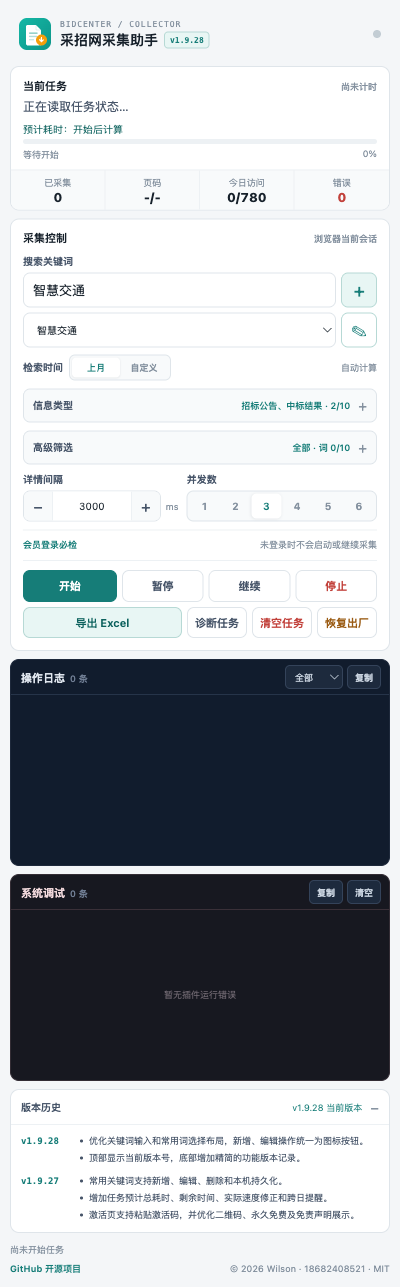
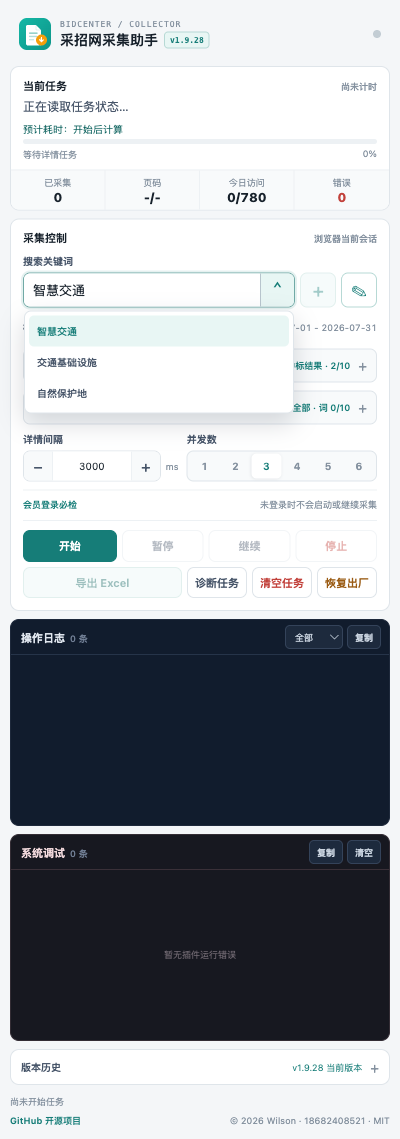
feat: 合并关键词输入与完整版本历史

diff --git a/sidepanel.js b/sidepanel.js
@@ -77,6 +77,7 @@ async function initializeSidepanel() {
   document.querySelectorAll('[data-app-version]').forEach((element) => {
     element.textContent = `v${version}`;
   });
+  renderKeywordOptions();
   const stored = await chrome.storage.local.get(ACTIVATION_STORAGE_KEY);
   const isActivated = stored[ACTIVATION_STORAGE_KEY]?.activated === true;
   showActivationView(isActivated);
@@ -399,16 +400,51 @@ function renderKeywordManager() {
 
 function renderKeywordOptions() {
   const selected = $('#keyword').value.trim();
-  const placeholder = document.createElement('option');
-  placeholder.value = '';
-  placeholder.textContent = '选择常用关键词';
-  $('#keyword-options').replaceChildren(placeholder, ...keywordOptions.map((keyword) => {
-    const option = document.createElement('option');
-    option.value = keyword;
+  $('#keyword-options').replaceChildren(...keywordOptions.map((keyword, index) => {
+    const option = document.createElement('button');
+    option.type = 'button';
+    option.id = `keyword-option-${index}`;
+    option.className = 'keyword-option';
+    option.setAttribute('role', 'option');
     option.textContent = keyword;
+    option.addEventListener('click', () => {
+      $('#keyword').value = keyword;
+      keywordDirty = true;
+      syncKeywordControls();
+      setKeywordDropdown(false);
+      $('#keyword').focus();
+    });
     return option;
   }));
-  $('#keyword-options').value = keywordOptions.includes(selected) ? selected : '';
+  $('#keyword-toggle').disabled = !keywordOptions.length;
+  $('#keyword-toggle').title = keywordOptions.length ? '选择常用关键词' : '暂无常用关键词';
+  syncKeywordControls(selected);
+}
+
+function setKeywordDropdown(open) {
+  const visible = Boolean(open && keywordOptions.length);
+  $('#keyword-options').hidden = !visible;
+  $('#keyword').setAttribute('aria-expanded', String(visible));
+  $('#keyword-toggle').setAttribute('aria-expanded', String(visible));
+  $('#keyword-toggle').classList.toggle('open', visible);
+}
+
+function syncKeywordControls(value = $('#keyword').value.trim()) {
+  const normalized = value.toLocaleLowerCase('zh-CN');
+  const selectedIndex = keywordOptions.findIndex((keyword) => keyword.toLocaleLowerCase('zh-CN') === normalized);
+  const addButton = $('#add-keyword');
+  const duplicate = selectedIndex >= 0;
+  addButton.disabled = !value || duplicate;
+  addButton.title = !value
+    ? '请先输入关键词'
+    : duplicate ? '该关键词已存在，无需重复添加' : '添加到常用关键词';
+  [...$('#keyword-options').children].forEach((option, index) => {
+    const selected = index === selectedIndex;
+    option.classList.toggle('selected', selected);
+    option.setAttribute('aria-selected', String(selected));
+  });
+  if (selectedIndex >= 0) $('#keyword').setAttribute('aria-activedescendant', `keyword-option-${selectedIndex}`);
+  else $('#keyword').removeAttribute('aria-activedescendant');
 }
 
 function syncKeywordOptions(values = []) {
@@ -574,7 +610,7 @@ function render(state = {}, logs = latestLogs, systemErrors = latestSystemErrors
   $('#failed-count').textContent = state.batchFailed || partialFailed || state.records?.filter((record) => record.采集状态 === '失败').length || 0;
   if (state.keyword && !keywordDirty) {
     $('#keyword').value = state.keyword;
-    $('#keyword-options').value = keywordOptions.includes(state.keyword) ? state.keyword : '';
+    syncKeywordControls();
   }
   $('#last-action').textContent = state.lastTitle ? `最近：${state.lastTitle}` : state.updatedAt ? `更新于 ${formatTime(state.updatedAt)}` : '尚未开始任务';
   if (!settingsDirty) {
@@ -834,28 +870,46 @@ $('#interval-decrease').addEventListener('click', () => adjustInterval(-100));
 $('#interval-increase').addEventListener('click', () => adjustInterval(100));
 $('#keyword').addEventListener('input', () => {
   keywordDirty = true;
-  const keyword = $('#keyword').value.trim();
-  $('#keyword-options').value = keywordOptions.includes(keyword) ? keyword : '';
+  syncKeywordControls();
 });
-$('#keyword-options').addEventListener('change', () => {
-  const keyword = $('#keyword-options').value;
-  if (!keyword) return;
-  $('#keyword').value = keyword;
-  keywordDirty = true;
+$('#keyword').addEventListener('keydown', (event) => {
+  if (event.key === 'ArrowDown') {
+    event.preventDefault();
+    setKeywordDropdown(true);
+    $('#keyword-options .selected, #keyword-options .keyword-option')?.focus();
+  } else if (event.key === 'Escape') {
+    setKeywordDropdown(false);
+  }
+});
+$('#keyword-toggle').addEventListener('click', () => setKeywordDropdown($('#keyword-options').hidden));
+$('#keyword-options').addEventListener('keydown', (event) => {
+  const options = [...$('#keyword-options').querySelectorAll('.keyword-option')];
+  const currentIndex = options.indexOf(document.activeElement);
+  if (event.key === 'Escape') {
+    event.preventDefault();
+    setKeywordDropdown(false);
+    $('#keyword').focus();
+  } else if (event.key === 'ArrowDown' || event.key === 'ArrowUp') {
+    event.preventDefault();
+    const direction = event.key === 'ArrowDown' ? 1 : -1;
+    options[(currentIndex + direction + options.length) % options.length]?.focus();
+  }
 });
 $('#add-keyword').addEventListener('click', async () => {
   const keyword = $('#keyword').value.trim();
-  if (!keyword) {
+  const duplicate = keywordOptions.some((value) => value.toLocaleLowerCase('zh-CN') === keyword.toLocaleLowerCase('zh-CN'));
+  if (!keyword || duplicate) {
+    syncKeywordControls();
     $('#keyword').focus();
     return;
   }
   keywordOptions = normalizeKeywordOptions([...keywordOptions, keyword]);
   await saveKeywordOptions();
-  $('#keyword-options').value = keyword;
   $('#add-keyword').textContent = '✓';
   setTimeout(() => { $('#add-keyword').textContent = '+'; }, 1200);
 });
 $('#manage-keywords').addEventListener('click', () => {
+  setKeywordDropdown(false);
   setKeywordManagerFeedback();
   renderKeywordManager();
   $('#keyword-manager-dialog').showModal();
@@ -863,6 +917,9 @@ $('#manage-keywords').addEventListener('click', () => {
 $('#close-keyword-manager').addEventListener('click', () => $('#keyword-manager-dialog').close());
 $('#keyword-manager-dialog').addEventListener('click', (event) => {
   if (event.target === event.currentTarget) event.currentTarget.close();
+});
+document.addEventListener('click', (event) => {
+  if (!event.target.closest('#keyword-combobox')) setKeywordDropdown(false);
 });
 $('#diagnose').addEventListener('click', async () => {
   const state = await getState();

diff --git a/sidepanel.html b/sidepanel.html
@@ -77,20 +77,14 @@
       <section class="search-panel">
         <div class="section-heading"><span>采集控制</span><small>浏览器当前会话</small></div>
         <label class="field-label" for="keyword">搜索关键词</label>
-        <div class="keyword-controls">
-          <div class="keyword-control-row">
-            <input id="keyword" value="智慧交通" maxlength="80" autocomplete="off" placeholder="输入搜索关键词">
-            <button id="add-keyword" class="keyword-icon-button add-keyword" type="button" aria-label="添加到常用关键词" title="添加到常用关键词">+</button>
+        <div class="keyword-toolbar">
+          <div id="keyword-combobox" class="keyword-combobox">
+            <input id="keyword" role="combobox" aria-autocomplete="list" aria-expanded="false" aria-controls="keyword-options" aria-haspopup="listbox" value="智慧交通" maxlength="80" autocomplete="off" placeholder="输入搜索关键词">
+            <button id="keyword-toggle" class="keyword-dropdown-button" type="button" aria-label="选择常用关键词" aria-expanded="false" aria-controls="keyword-options" title="选择常用关键词"><span aria-hidden="true">⌄</span></button>
+            <div id="keyword-options" class="keyword-options" role="listbox" aria-label="常用关键词" hidden></div>
           </div>
-          <div class="keyword-control-row">
-            <select id="keyword-options" aria-label="选择常用关键词">
-              <option value="">选择常用关键词</option>
-              <option value="智慧交通" selected>智慧交通</option>
-              <option value="交通基础设施">交通基础设施</option>
-              <option value="自然保护地">自然保护地</option>
-            </select>
-            <button id="manage-keywords" class="keyword-icon-button manage-keywords" type="button" aria-label="编辑常用关键词" title="编辑常用关键词"><span aria-hidden="true">✎</span></button>
-          </div>
+          <button id="add-keyword" class="keyword-icon-button add-keyword" type="button" aria-label="添加到常用关键词" title="该关键词已存在，无需重复添加" disabled>+</button>
+          <button id="manage-keywords" class="keyword-icon-button manage-keywords" type="button" aria-label="编辑常用关键词" title="编辑常用关键词"><span aria-hidden="true">✎</span></button>
         </div>
         <div class="time-filter" aria-label="检索时间">
           <span class="time-filter-label">检索时间</span>
@@ -215,16 +209,26 @@
           <article>
             <strong>v1.9.28</strong>
             <ul>
-              <li>优化关键词输入和常用词选择布局，新增、编辑操作统一为图标按钮。</li>
-              <li>顶部显示当前版本号，底部增加精简的功能版本记录。</li>
+              <li>关键词改为输入与下拉一体的组合控件，选择后自动填充输入框。</li>
+              <li>新增、编辑操作并排显示为图标按钮，重复或未修改内容不可新增。</li>
+              <li>顶部显示当前版本号，底部完整展示已确认的功能版本记录。</li>
             </ul>
           </article>
           <article>
             <strong>v1.9.27</strong>
             <ul>
+              <li>提供 Chrome 侧边栏采集控制与公益激活首页。</li>
+              <li>开始、继续及翻页前强制检查采招网会员登录状态。</li>
+              <li>支持关键词、上月整月、自定义日期、信息类型和高级条件检索。</li>
+              <li>支持排除词、相关词及多信息类型顺序采集。</li>
+              <li>支持整页并发读取详情，详情间隔和并发数可调。</li>
+              <li>支持暂停、继续、停止、断点续采和重复记录去重。</li>
+              <li>提供每日 780 条访问保护及人机验证等待恢复。</li>
+              <li>显示预计总耗时、剩余时间、运行耗时、暂停耗时和跨日提醒。</li>
               <li>常用关键词支持新增、编辑、删除和本机持久化。</li>
-              <li>增加任务预计总耗时、剩余时间、实际速度修正和跨日提醒。</li>
-              <li>激活页支持粘贴激活码，并优化二维码、永久免费及免责声明展示。</li>
+              <li>详情同时保存结构化字段、提取证据和正文全文。</li>
+              <li>暂停、停止或完成后均可导出 Excel。</li>
+              <li>提供操作日志、系统错误记录、诊断和一键复制。</li>
             </ul>
           </article>
         </div>

diff --git a/sidepanel.css b/sidepanel.css
@@ -103,10 +103,19 @@ h1 { margin: 1px 0 0; font-size: 14px; line-height: 18px; font-weight: 750; }
 input, select { height: 33px; border: 1px solid var(--line); border-radius: 7px; background: var(--surface); color: var(--text); }
 input { width: 100%; min-width: 0; padding: 0 9px; }
 input:focus, select:focus { border-color: #71aaa6; outline: none; box-shadow: 0 0 0 2px rgba(22,125,120,.11); }
-.keyword-controls { display: grid; min-width: 0; gap: 5px; }
-.keyword-control-row { display: grid; grid-template-columns: minmax(0, 1fr) 36px; min-width: 0; gap: 5px; }
-.keyword-control-row input, .keyword-control-row select { width: 100%; min-width: 0; height: 35px; }
-.keyword-control-row select { padding: 0 28px 0 9px; font-size: 10px; }
+.keyword-toolbar { display: grid; grid-template-columns: minmax(0, 1fr) 36px 36px; min-width: 0; align-items: start; gap: 5px; }
+.keyword-combobox { position: relative; display: grid; grid-template-columns: minmax(0, 1fr) 34px; min-width: 0; height: 35px; border: 1px solid var(--line); border-radius: 7px; background: var(--surface); }
+.keyword-combobox:focus-within { border-color: #71aaa6; box-shadow: 0 0 0 2px rgba(22,125,120,.11); }
+.keyword-combobox input { height: 33px; padding-right: 6px; border: 0; border-radius: 6px 0 0 6px; box-shadow: none; }
+.keyword-combobox input:focus { box-shadow: none; }
+.keyword-dropdown-button { width: 34px; height: 33px; padding: 0; border: 0; border-left: 1px solid var(--line-soft); border-radius: 0 6px 6px 0; background: var(--surface-2); color: var(--muted); font-size: 16px; font-weight: 500; }
+.keyword-dropdown-button:hover:not(:disabled), .keyword-dropdown-button.open { background: var(--accent-soft); color: var(--accent); }
+.keyword-dropdown-button span { display: inline-block; transform: translateY(-1px); transition: transform .15s ease; }
+.keyword-dropdown-button.open span { transform: rotate(180deg) translateY(1px); }
+.keyword-options { position: absolute; z-index: 30; top: calc(100% + 4px); right: 0; left: 0; max-height: 170px; overflow-y: auto; padding: 4px; border: 1px solid var(--line); border-radius: 7px; background: var(--surface); box-shadow: 0 10px 24px rgba(15,23,42,.16); }
+.keyword-options[hidden] { display: none; }
+.keyword-option { display: block; width: 100%; height: 31px; padding: 0 8px; border: 0; border-radius: 5px; background: transparent; color: var(--text-2); font-size: 10px; font-weight: 500; text-align: left; }
+.keyword-option:hover:not(:disabled), .keyword-option.selected { background: var(--accent-soft); color: var(--accent); }
 .keyword-icon-button { width: 36px; height: 35px; padding: 0; border-color: #b7d9d5; background: var(--accent-soft); color: var(--accent); font-size: 18px; font-weight: 500; }
 .manage-keywords { background: var(--surface); font-size: 17px; }
 .add-keyword:hover:not(:disabled), .manage-keywords:hover:not(:disabled) { border-color: #71aaa6; background: #dff1ef; color: var(--accent-hover); }

diff --git a/README.md b/README.md
@@ -45,7 +45,7 @@
   <img src="docs/screenshots/02-collector-panel.png" alt="采招网采集助手采集操作页面" width="420">
 </p>
 
-操作页集中展示当前任务、预计耗时、分页进度、今日访问数、关键词、筛选条件、间隔、并发数、开始暂停与导出操作，以及运行日志和系统调试信息。
+操作页集中展示当前任务、预计耗时、分页进度、今日访问数、组合关键词输入、筛选条件、间隔、并发数、开始暂停与导出操作，以及运行日志和系统调试信息。
 
 ### 常用关键词管理
 
@@ -54,6 +54,14 @@
 </p>
 
 默认提供“智慧交通”“交通基础设施”“自然保护地”，支持新增、修改、删除和本机持久化保存。
+
+### 功能版本历史
+
+<p>
+  <img src="docs/screenshots/04-version-history.png" alt="采招网采集助手完整功能版本历史" width="420">
+</p>
+
+操作页底部按版本展示用户可感知的功能变化。仓库目前仅有 `v1.9.27` 一个已公开历史版本，因此不虚构更早版本号；`v1.9.28` 为当前待发布版本。
 
 ## 核心功能
 
@@ -155,14 +163,22 @@ docs/screenshots/      GitHub 产品截图
 
 ### 2026-08-14 · v1.9.28
 
-- 优化关键词输入框与常用词下拉框布局，新增和编辑操作统一为图标按钮。
-- 插件顶部显示当前版本号，操作页底部增加精简的功能版本历史。
+- 关键词改为输入与下拉一体的组合控件，选择常用词后自动填充输入框。
+- 新增和编辑操作并排显示为图标按钮；内容重复、为空或未修改时禁止新增。
+- 插件顶部显示当前版本号，操作页底部完整展示已确认的功能版本历史。
 
 ### 2026-08-14 · v1.9.27
 
-- 常用关键词支持新增、编辑、删除和刷新后持久化。
-- 激活首页支持复制粘贴激活码，缩小二维码并强化永久免费与免责声明提示。
-- 增加当次任务预计总耗时、剩余时间、实际速度修正和跨日提醒。
+- 提供 Chrome 侧边栏采集控制、公益激活首页和强制会员登录检查。
+- 支持关键词、上月整月、自定义日期、信息类型、高级条件、排除词和相关词检索。
+- 支持多信息类型顺序采集、整页并发读取、可调详情间隔和并发数。
+- 支持暂停、继续、停止、断点续采、重复记录去重及暂停后导出。
+- 提供每日 780 条访问保护、人机验证等待恢复和跨日提醒。
+- 显示预计总耗时、剩余时间、运行耗时和暂停耗时，并按实际速度修正。
+- 常用关键词支持新增、编辑、删除和刷新后本机持久化。
+- 详情同时保存结构化字段、提取证据和正文全文。
+- 暂停、停止或完成后均可导出 Excel。
+- 提供操作日志、系统错误记录、任务诊断和一键复制。
 
 ## 开源授权
 
